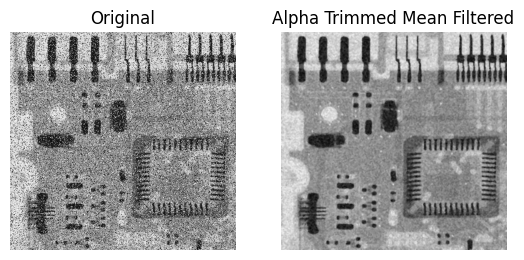
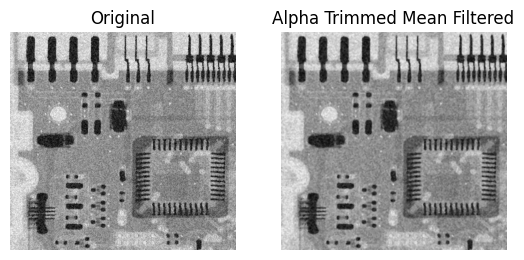
Lab6: update code, draft'

Changed region(s): [[0.0, 0.1231, 0.458, 0.9846]]

diff --git a/Lab6/img_restore.py b/Lab6/img_restore.py
@@ -196,7 +196,7 @@ img_ad = adaptive_median_filter(img,11)
 img_alpha = alpha_trimmed_mean_filter(img_ad, 3, 4)
 plt.figure()
 plt.subplot(1, 2, 1)
-plt.imshow(img, cmap='gray',vmin=0,vmax=255)
+plt.imshow(img_ad, cmap='gray',vmin=0,vmax=255)
 plt.title('Original')
 plt.axis('off')
 plt.subplot(1, 2, 2)
@@ -285,17 +285,19 @@ plt.show()
 # Wiener filtering
 plt.figure()
 img_wieners = []
-for i in range(6):
-    K = 1e-4*i
+k = [1, 1e-1, 1e-4, 1e-6, 1e-7, 1e-10]
+i = 0
+for K in k:
     img_fft_wiener = wiener(img_fft, H, K)
     img_wieners.append(np.real(np.fft.ifft2(np.fft.ifftshift(img_fft_wiener))))
     print(f"Max: {np.max(img_wieners[i])}, Min: {np.min(img_wieners[i])}")
     img_wiener = np.clip(img_wieners[i], 0, 255).astype(np.uint8)
     plt.subplot(2, 3, i+1)
     plt.imshow(img_wiener, cmap='gray',vmin=0,vmax=255)
-    plt.title(f'K={K:.4f}')
+    plt.title(f'K={K:.1e}')
     plt.axis('off')
     print(f"K={K}")
+    i += 1
 plt.savefig(f'out/{test_image}_restore_wiener.png', bbox_inches='tight')
 plt.show()
 
@@ -306,7 +308,7 @@ plt.title('Full Inverse Filtering plus 0.01')
 plt.axis('off')
 plt.subplot(1, 2, 2)
 plt.imshow(img_wieners[2], cmap='gray',vmin=0,vmax=255)
-plt.title('Wiener Filtering 0.0003')
+plt.title('Wiener Filtering K=1e-4')
 plt.axis('off')
 plt.savefig(f'out/{test_image}_compare.png', bbox_inches='tight')
 plt.show()
@@ -445,5 +447,5 @@ for g in Gamma:
     plt.imshow(img_cls, cmap='gray',vmin=0,vmax=255)
     plt.axis('off')
     plt.title(f'Gamma={g:.1e}')
-plt.savefig(f'out/{test_image[0]}_cls.png', bbox_inches='tight')
+plt.savefig(f'out/{test_image[1]}_cls.png', bbox_inches='tight')
 plt.show()

diff --git a/Lab6/report/draft.md b/Lab6/report/draft.md
@@ -181,7 +181,7 @@ Here:
   p(x,y)=\begin{bmatrix}0&-1&0\\-1&4&-1\\0&-1&0\end{bmatrix}
   $$
 
-# Experiments
+# Experiments Setup
 
 The experiments are generally divided into three parts. The first part deals with images degraded by salt and pepper noise and Gaussian noise. The second part deals with images degraded by atmospheric turbulence. The final part deals with images degraded by motion blur and Gaussian noise.
 
@@ -189,4 +189,274 @@ The experiments are generally divided into three parts. The first part deals wit
 
 For `Q6_1_1.tif` (Figure todo) and `Q6_1_2.tif` (Figure todo), the images are distorted by pepper noise and salt noise, respectively. Thus, the median filter is capable of removing such noise. For `Q6_1_3.tif` (Figure todo), the image is distorted by both salt and pepper noise, and the probability of the noise's appearance is high. Thus, simply using a median filter is not enough because, within the window of the median filter, we are likely to encounter the case that the median value is exactly an impulse. However, using a large window in the median filter can also degrade the image by assigning a pixel with a median value that is far from itself. In this case, we use an adaptive median filter to handle it. For `Q6_1_4.tif` (Figure todo), the image is not only degraded by salt and pepper noise but also by Gaussian noise. When handling this situation, we need to combine two strategies to divide and conquer it. Firstly, an adaptive median filter can remove the impulse noises. Secondly, to preserve the texture of the image, we do not use a mean filter; instead, we use an adaptive mean filter, which does not blur the texture information in the image.
 
-The hardest
+The pseudo-code for the adaptive median filter is shown below:
+
+todo
+
+According to the pseudo code, we can write the Python code as follows:
+```python
+def adaptive_median_filter(input_image, size_max):
+    output_image = np.zeros(input_image.shape, dtype=input_image.dtype)
+    temp = np.pad(input_image, size_max//2, mode='reflect')
+    for i in range(input_image.shape[0]):
+        for j in range(input_image.shape[1]):
+            size = 3
+            while size <= size_max:
+                # get the window
+                offset = size_max//2 - size//2
+                window = temp[i+offset:i+offset+size, j+offset:j+offset+size]
+                # calculate the params
+                zmin = np.min(window)
+                zmax = np.max(window)
+                zmed = np.median(window)
+                zxy = input_image[i, j].astype(np.int32)
+
+                A1 = zmed - zmin
+                A2 = zmed - zmax
+                # check if the median pixel is impulse noise
+                if A1 > 0 and A2 < 0:
+                    B1 = zxy - zmin
+                    B2 = zxy - zmax
+                    if B1 > 0 and B2 < 0:
+                        output_image[i, j] = zxy
+                        break
+                    else:
+                        output_image[i, j] = zmed
+                        break
+                else:
+                    size += 2
+                    continue
+    return output_image
+```
+
+As for the median filter and adaptive mean filter, we can easily derive them according to definition; the code for them is shown below:
+
+```python
+def median_filter(input_image, n_size):
+    '''
+    flipping the image at the edges would produce better results
+    '''
+    # padding, and ensure n_size is odd
+    if n_size % 2 == 0:
+        n_size += 1
+    temp = np.pad(input_image, n_size//2, mode='reflect')
+
+    output_image = np.zeros(input_image.shape, dtype=input_image.dtype)
+
+    for i in range(input_image.shape[0]):
+        for j in range(input_image.shape[1]):
+            output_image[i, j] = np.median(temp[i:i+n_size, j:j+n_size])
+    return output_image
+
+def adaptive_mean_filter(input_image, noise_var, n_size):
+    output_image = np.zeros(input_image.shape, dtype=input_image.dtype)
+    temp = np.pad(input_image, n_size//2, mode='reflect')
+    for i in range(input_image.shape[0]):
+        for j in range(input_image.shape[1]):
+            window = temp[i:i+n_size, j:j+n_size]
+            window_var = np.var(window)
+            output_image[i, j] = input_image[i, j] - (noise_var/window_var) * (input_image[i, j] - np.mean(window))
+    return output_image
+
+```
+
+Note that obtaining the variance of noise in the adaptive mean filter requires us to select a region of interest (ROI) that mainly contains noise. In order to ease this process, I wrote a function to display a window showing the full image; then the user can use the mouse to frame the ROI, in which we approximate the noise variance as the pixels’ variance. The function is shown below:
+
+```python
+def select_roi(image):
+    """
+    Display an image and let the user draw a rectangle on the image.
+    Return the coordinates of the rectangle corners.
+    
+    Args:
+    image (numpy array): The image to display in grayscale.
+    
+    Returns:
+    tuple: Coordinates of the rectangle (x1, y1, x2, y2).
+    """
+    # Initial rectangle coordinates
+    rect = (0, 0, 1, 1)
+    drawing = False
+
+    def on_mouse(event, x, y, flags, param):
+        nonlocal rect, drawing
+        if event == cv2.EVENT_LBUTTONDOWN:
+            rect = (x, y, x, y)
+            drawing = True
+        elif event == cv2.EVENT_MOUSEMOVE and drawing:
+            rect = (rect[0], rect[1], x, y)
+        elif event == cv2.EVENT_LBUTTONUP:
+            rect = (rect[0], rect[1], x, y)
+            drawing = False
+
+    cv2.namedWindow('Select ROI')
+    cv2.setMouseCallback('Select ROI', on_mouse)
+    
+    while True:
+        img_copy = image.copy()
+        if rect[2] - rect[0] > 0 and rect[3] - rect[1] > 0:
+            cv2.rectangle(img_copy, (rect[0], rect[1]), (rect[2], rect[3]), (255, 0, 0), 2)
+        cv2.imshow('Select ROI', img_copy)
+        if cv2.waitKey(1) & 0xFF == 13:  # Press ENTER to exit
+            break
+
+    cv2.destroyAllWindows()
+    return rect
+```
+
+
+
+## Restoring Atmospheric Turbulence
+
+`Q6_2` (Figure todo) is distorted by atmospheric turbulence. To restore it, we can either use full inverse filtering, radially limited inverse filtering, or Wiener filtering. 
+
+Although the frequency response of atmospheric turbulence is
+$$
+H(u,v)=e^{-k(u^2+v^2)^{5/6}}
+$$
+In code writing, we need to realize that the above frequency response considers the origin to be at the center of the image. To eliminate the effect of centering, we need to either perform `fftshift` and `ifftshift` to the image or calculate $H$ in another approach. In my code, I use the latter one as shown below:
+
+```python
+H = np.zeros(img_fft.shape, dtype=img_fft.dtype)
+u_center = img_fft.shape[0]/2
+v_center = img_fft.shape[1]/2
+for u in range(img_fft.shape[0]):
+    for v in range(img_fft.shape[1]):
+        H[u, v] = np.exp(-0.0025*((u-u_center)**2+(v-v_center)**2)**(5/6))
+```
+
+Note that `k=0.0025` in this case, as shown in the code.
+
+After obtaining the filter, performing Wiener filtering is relatively easy:
+
+```python
+def wiener(img_fft, H, K):
+    H_abs_2 = np.abs(H)**2
+    Y_img = (H_abs_2/H/(H_abs_2+K)) * img_fft
+    return Y_img
+```
+
+And radially limited inverse filtering is full inverse filter times a Butterworth lowpass filter. For simplicity, the code is not shown in this report.
+
+**Alternative method:**
+
+Although we have previously known that full inverse filtering usually cannot provide a satisfactory result, does it mean full inverse filtering is of no use at all? Of course not. The reason for its bad performance is due to the small value of noise divided by a close-to-zero value in the filter. To avoid this, I simply add a tiny constant (in this case $0.01$) to the denominator as shown below:
+
+```python
+img_fft_restore = np.fft.ifftshift(img_fft / (H + 1e-2))
+```
+
+
+
+## Restoring Motion Blurred Images
+
+`Q6_3_1.tif`., `Q6_3_2.tif`, and `Q6_3_3.tif` are distorted by motion blur, and they are distorted to varying degrees by Gaussian noise. In this case, we need to first derive the motion blur filter, then apply Wiener filtering and constrained least squares filtering.
+
+Deriving the motion blur filter has two method, one of the method is directly use the conclusion from the previous part, that is:
+$$
+H(u,v)=\frac{T}{\pi(u a+v b)}\sin[\pi(u a+v b)]e^{-j\pi(u a+v b)} 
+$$
+The corresponding code is:
+
+```python
+def get_motion_blur_filter(img_shape, a, b, T, epsilon=1e-10):
+    uu, vv = np.ogrid[1:img_shape[0]+1, 1:img_shape[1]+1]
+    D = uu * a + vv * b + epsilon
+    H = T / (np.pi * D) * np.sin(np.pi * D) * np.exp(-1j * np.pi * D)
+    return H
+```
+
+Note that since $H$ has a denominator part, we need to ensure that it won’t suffer from divided-by-zero error, so adding a `epsilon` term which is a small number is necessary.
+
+Another method is derive the integral using numeric method, I have also done this as an extension.
+
+The code is optimize in order to utilize matrix operation to calculate integration as shown below:
+
+```python
+vx = 0.1
+vy = 0.1
+delta_t = 1e-2
+step = 1/delta_t
+uu, vv = np.ogrid[0:test_image.shape[0], 0:test_image.shape[1]]
+M = uu * vx + vv * vy
+M = M[np.newaxis, :, :]
+t = np.arange(0, 1, delta_t)
+t = t[:, np.newaxis, np.newaxis]
+H_mb = np.sum(np.exp(-1j*2*np.pi*M*t) * delta_t,axis=0)
+```
+
+`H_mb` is the motion blur filter we want to derive.
+
+# Results
+
+## Removing Salt and Pepper Noise (and Gaussian Noise)
+
+For `Q6_1_1.tif` and `Q6_1_2.tif`, simply applying median filter is enough, the result is shown in Figure todo and Figure todo. Since the filter need to process the pixel one by one, the time complexity of the algorithm is $O(n)$ where $n$ is the number of pixels. And the storage consumption do not scale linearly (although I need to save a copy of the original image, but I guess `numpy` use soft copy instead of hard copy in this case), thus, the space complexity is $O(1)$.
+
+![Q6_1_1_median](./assets/Q6_1_1_median.png)
+
+![Q6_1_2_median](./assets/Q6_1_2_median-1715172499185-2.png)
+
+`Q6_1_3.tif` is restored by the adaptive median filter, as shown in Figure todo. The adaptive median filter also traverses through each pixel, so it also has a time complexity of $O(n)$. However, since it may enlarge the window when processing, the time complexity should be greater than that of the median filter. As for the space complexity, the adaptive median filter needs to store several values like the minimum, maximum, and median value within the window, but that does not scale as the input image gets larger, so the space complexity is also $O(1)$.
+
+![Q6_1_3_adaptive_median](./assets/Q6_1_3_adaptive_median.png)
+
+Because the noise density of `Q6_1_3.tif` is too high, applying the median filter is not good enough, as shown in Figure todo.
+
+![Q6_1_3_median](./assets/Q6_1_3_median.png)
+
+For `Q6_1_4.tif`, I first apply adaptive median filter to remove the impulse noise (Figure todo), then apply the adaptive mean filter to remove the Gaussian noise (Figure todo).
+
+![Q6_1_4_adaptive_median](./assets/Q6_1_4_adaptive_median.png)
+
+![Q6_1_4_adaptive_mean](./assets/Q6_1_4_adaptive_mean-1715173943125-13.png)
+
+Specifically, the ROI selected (in white box) to estimate the noise variance is shown in Figure todo and todo.
+
+![selectROI](./assets/selectROI.png)
+
+![Q6_1_4_roi](./assets/Q6_1_4_roi.png)
+
+## Restoring Atmospheric Turbulence
+
+For `Q6_2.tif`, the direct inverse filtering result (regulated to 0~255) is shown in Figure todo.
+
+![Q6_2_restore_direct](./assets/Q6_2_restore_direct.png)
+
+The range of the original pixel values (not regulated) after filtering is 
+
+```python
+Max: 1.3185487450217516e+16, Min: -1.3170810031765624e+16
+```
+
+which shows that the noise is greatly magnified by this filter.
+
+However, if we do a little bit, adding a constant $0.01$ to the filter like this, we can obtain a clean and clear restored image (Figure todo).
+
+![Q6_2_restore](./assets/Q6_2_restore.png)
+
+The time complexity of the filter is $O(n)$, because I calculate the inverse filter value one by one. But the time complexity can be easily decreased to 𝑂(1) if we utilize the broadcasting mechanism in `numpy`, which can avoid a double `for` loop.
+
+Another way to avoid the defect of inverse filtering is by using radially limited inverse filtering, however, since Butterworth filter is introduced, we can expect that, if the cut off frequency is too low, the image is further blurred instead of restored, and if the cut off frequency is too high, the defect in inverse filtering will also appear. The result in Figure todo verified this analysis, where $D0$ is the cut off radius.
+
+![Q6_2_restore_butterworth](./assets/Q6_2_restore_butterworth.png)
+
+The final and also the best approach I made to restore this image is using Wiener filtering. The result is shown in Figure todo. $K$ is the hyperparameter in the formula:
+$$
+\hat{F}(u,v)=\left[\frac1{H(u,v)}\frac{|H(u,v)|^2}{|H(u,v)|^2+K}\right]G(u,v)
+$$
+When $K$ approaches zero, the Wiener filter appears more like a full inverse filter, and when 𝐾 gets larger, the Wiener filter appears more like a lowpass filter.
+
+![Q6_2_restore_wiener](./assets/Q6_2_restore_wiener.png)
+
+If we compare the result obtained by adding a small constant in full inverse filtering and the Wiener filter with $K=1.0e-04$ as shown in Figure to do, we can notice that the Wiener filter showcases less ring effect.
+
+![Q6_2_compare](./assets/Q6_2_compare.png)
+
+## Restoring Motion Blurred Images
+
+For `Q6_3_1.tif`, I use Wiener filter to restore, the result is shown in Figure todo.
+
+![Q6_3_1_restore_wiener](./assets/Q6_3_1_restore_wiener.png)
+
+For `Q6_3_2.tif` and `Q6_3_3.tif` which are strongly distorted by Gaussian noise, I cannot produce a satisfactory result using Wiener filtering, 
